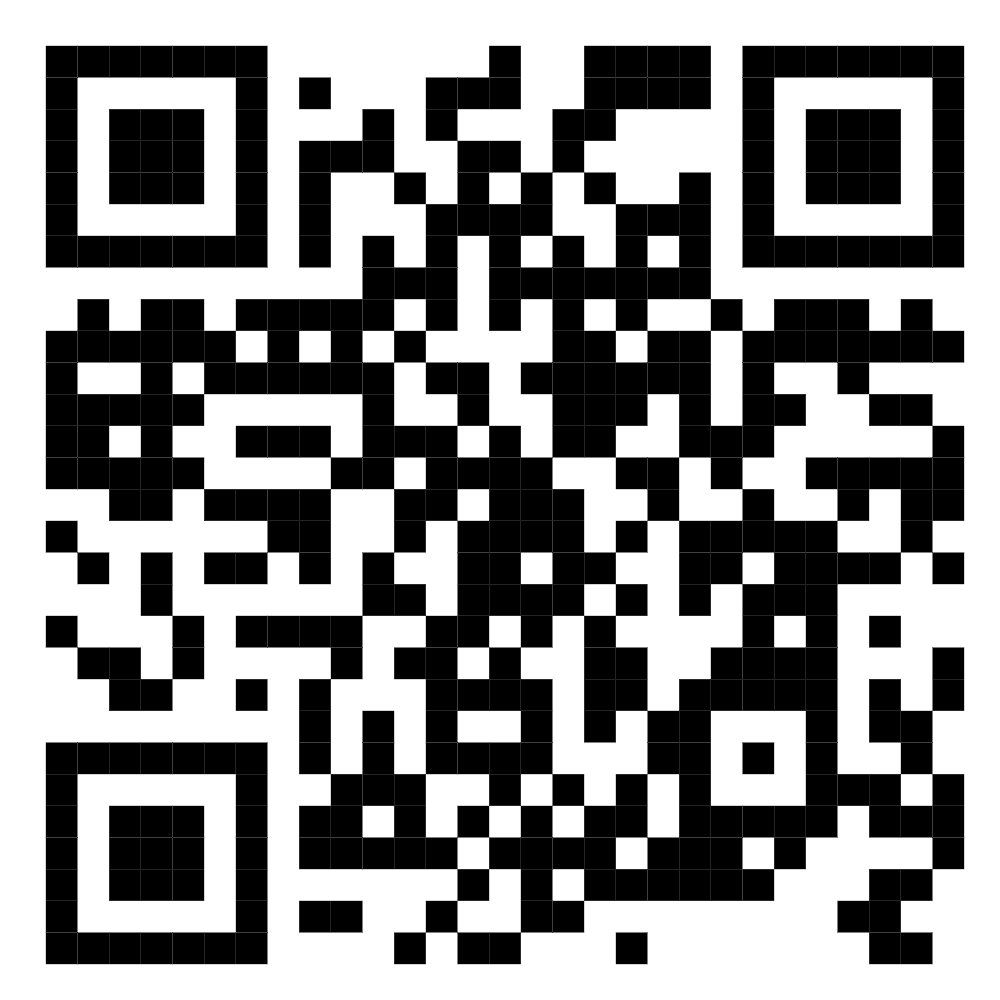
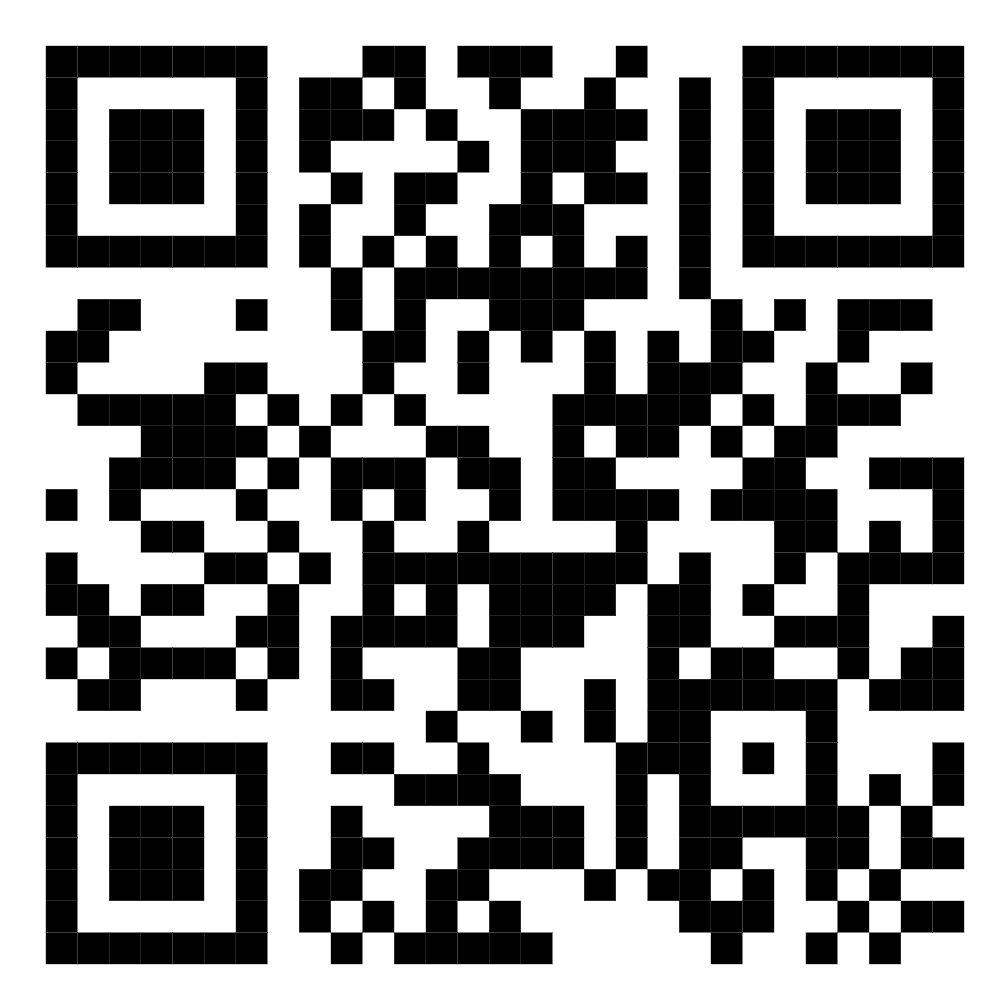
Replace QR code. Added function to prevent QR scanning ios issue

diff --git a/app.js b/app.js
@@ -208,6 +208,23 @@ window.onload = async function () {
     hideAllPlayerScreens();
     showPlayerLoading(true);
 
+    const token = localStorage.getItem("playerToken");
+
+    if (token) {
+      const { data: player, error } = await client
+        .from("players")
+        .select("*")
+        .eq("player_token", token)
+        .maybeSingle();
+
+      if (player) {
+        localStorage.setItem("playerName", player.name);
+        localStorage.setItem("tableCode", player.table_code);
+        localStorage.setItem("roomCode", player.room_code);
+        localStorage.setItem("joined", "true");
+      }
+    }
+
     if (localStorage.getItem("joined") !== "true") {
       document.getElementById("join-screen").style.display = "block";
       return;
@@ -273,12 +290,13 @@ async function joinGame() {
       alert("Failed to load game settings.");
       return;
     }
-
+    /* old placement of waiting
     if (game.phase !== "waiting") {
       document.getElementById("join-error").innerText =
         "❌ The game has already started.";
       return;
     }
+    */
 
     const playerName = document.getElementById("name").value.trim();
     const rawTableInput = document.getElementById("table").value;
@@ -286,6 +304,14 @@ async function joinGame() {
       .getElementById("roomcode")
       .value.trim()
       .toUpperCase();
+
+    // Player Token Logic
+    let playerToken = localStorage.getItem("playerToken");
+
+    if (!playerToken) {
+      playerToken = crypto.randomUUID();
+      localStorage.setItem("playerToken", playerToken);
+    }
 
     if (!playerName || !rawTableInput || !enteredRoomCode) {
       alert("Please fill in your name, table number and room code.");
@@ -319,6 +345,7 @@ async function joinGame() {
     if (isRoomCodeWrong) setFieldError("roomcode", "❌ Wrong room code.");
     if (isTableWrong || isRoomCodeWrong) return;
 
+    /* Old identification
     const { data: existingPlayer, error: existingError } = await client
       .from("players")
       .select("id")
@@ -326,30 +353,51 @@ async function joinGame() {
       .eq("table_code", canonicalTableCode)
       .eq("room_code", rawRoomCode)
       .maybeSingle();
+    */
+
+    //Check existing player
+    const { data: existingPlayer, error: existingError } = await client
+      .from("players")
+      .select("*")
+      .eq("player_token", playerToken)
+      .maybeSingle();
+
+    //Phase Check
+    if (game.phase !== "waiting" && !existingPlayer) {
+      document.getElementById("join-error").innerText =
+        "❌ The game has already started.";
+      return;
+    }
 
     if (existingError) {
       console.error("Existing player lookup error:", existingError);
     }
 
     if (!existingPlayer) {
-      const { error } = await client.from("players").insert([
-        {
-          name: playerName,
-          table_code: canonicalTableCode,
-          room_code: rawRoomCode,
-        },
-      ]);
+      const { error } = await client
+        .from("players")
+        .insert([
+          {
+            name: playerName,
+            table_code: canonicalTableCode,
+            room_code: rawRoomCode,
+            player_token: playerToken,
+          },
+        ])
+        .select()
+        .single();
 
       if (error) {
         console.error("Join error:", error);
         alert("Unable to join game: " + error.message);
         return;
       }
+      finalPlayer = data;
     }
 
-    localStorage.setItem("playerName", playerName);
-    localStorage.setItem("tableCode", canonicalTableCode);
-    localStorage.setItem("roomCode", rawRoomCode);
+    localStorage.setItem("playerName", finalPlayer.name);
+    localStorage.setItem("tableCode", finalPlayer.table_code);
+    localStorage.setItem("roomCode", finalPlayer.room_code);
     localStorage.setItem("joined", "true");
     localStorage.removeItem("submittedRound");
 
